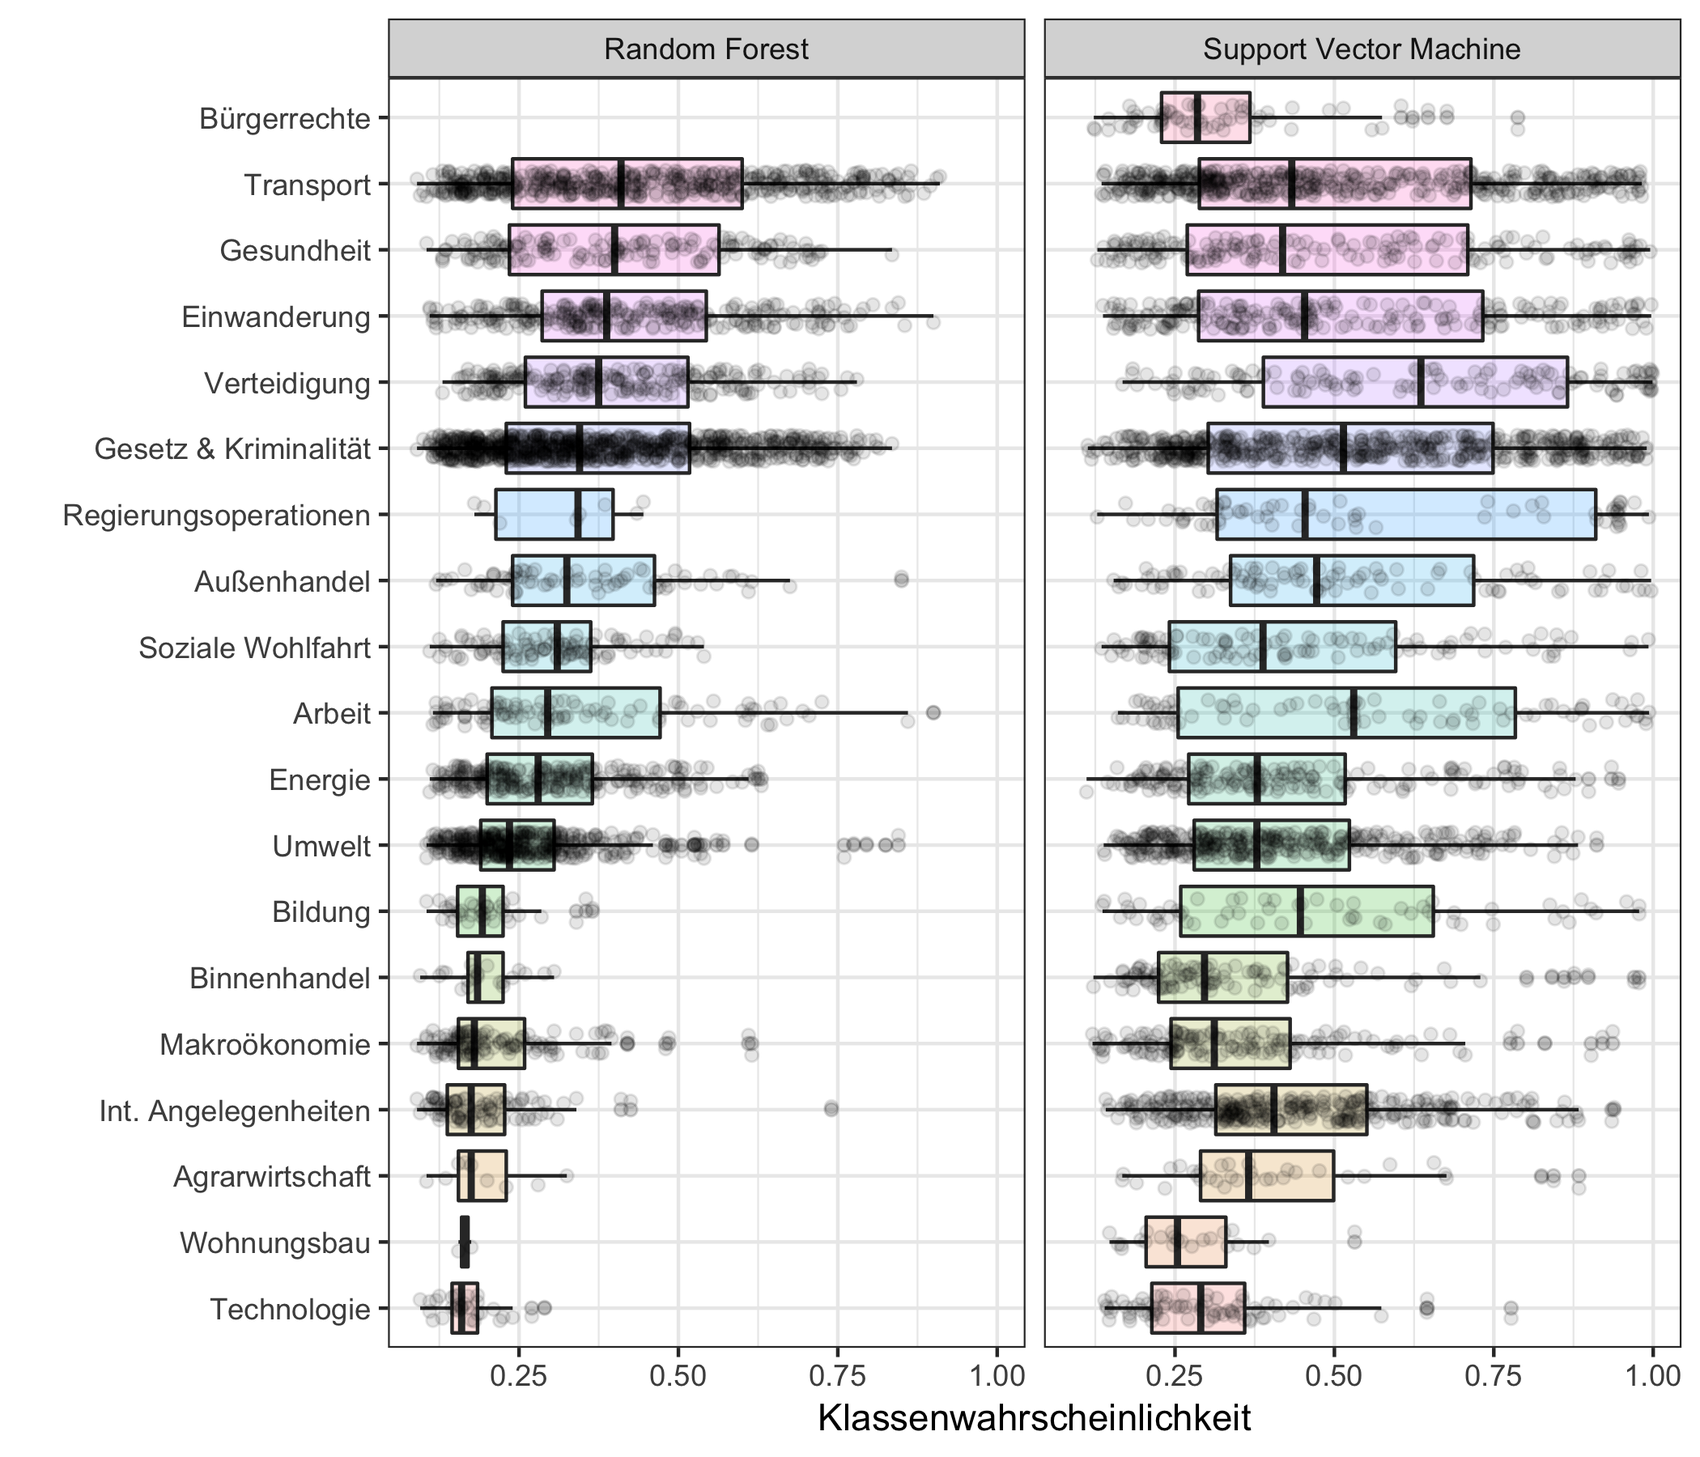
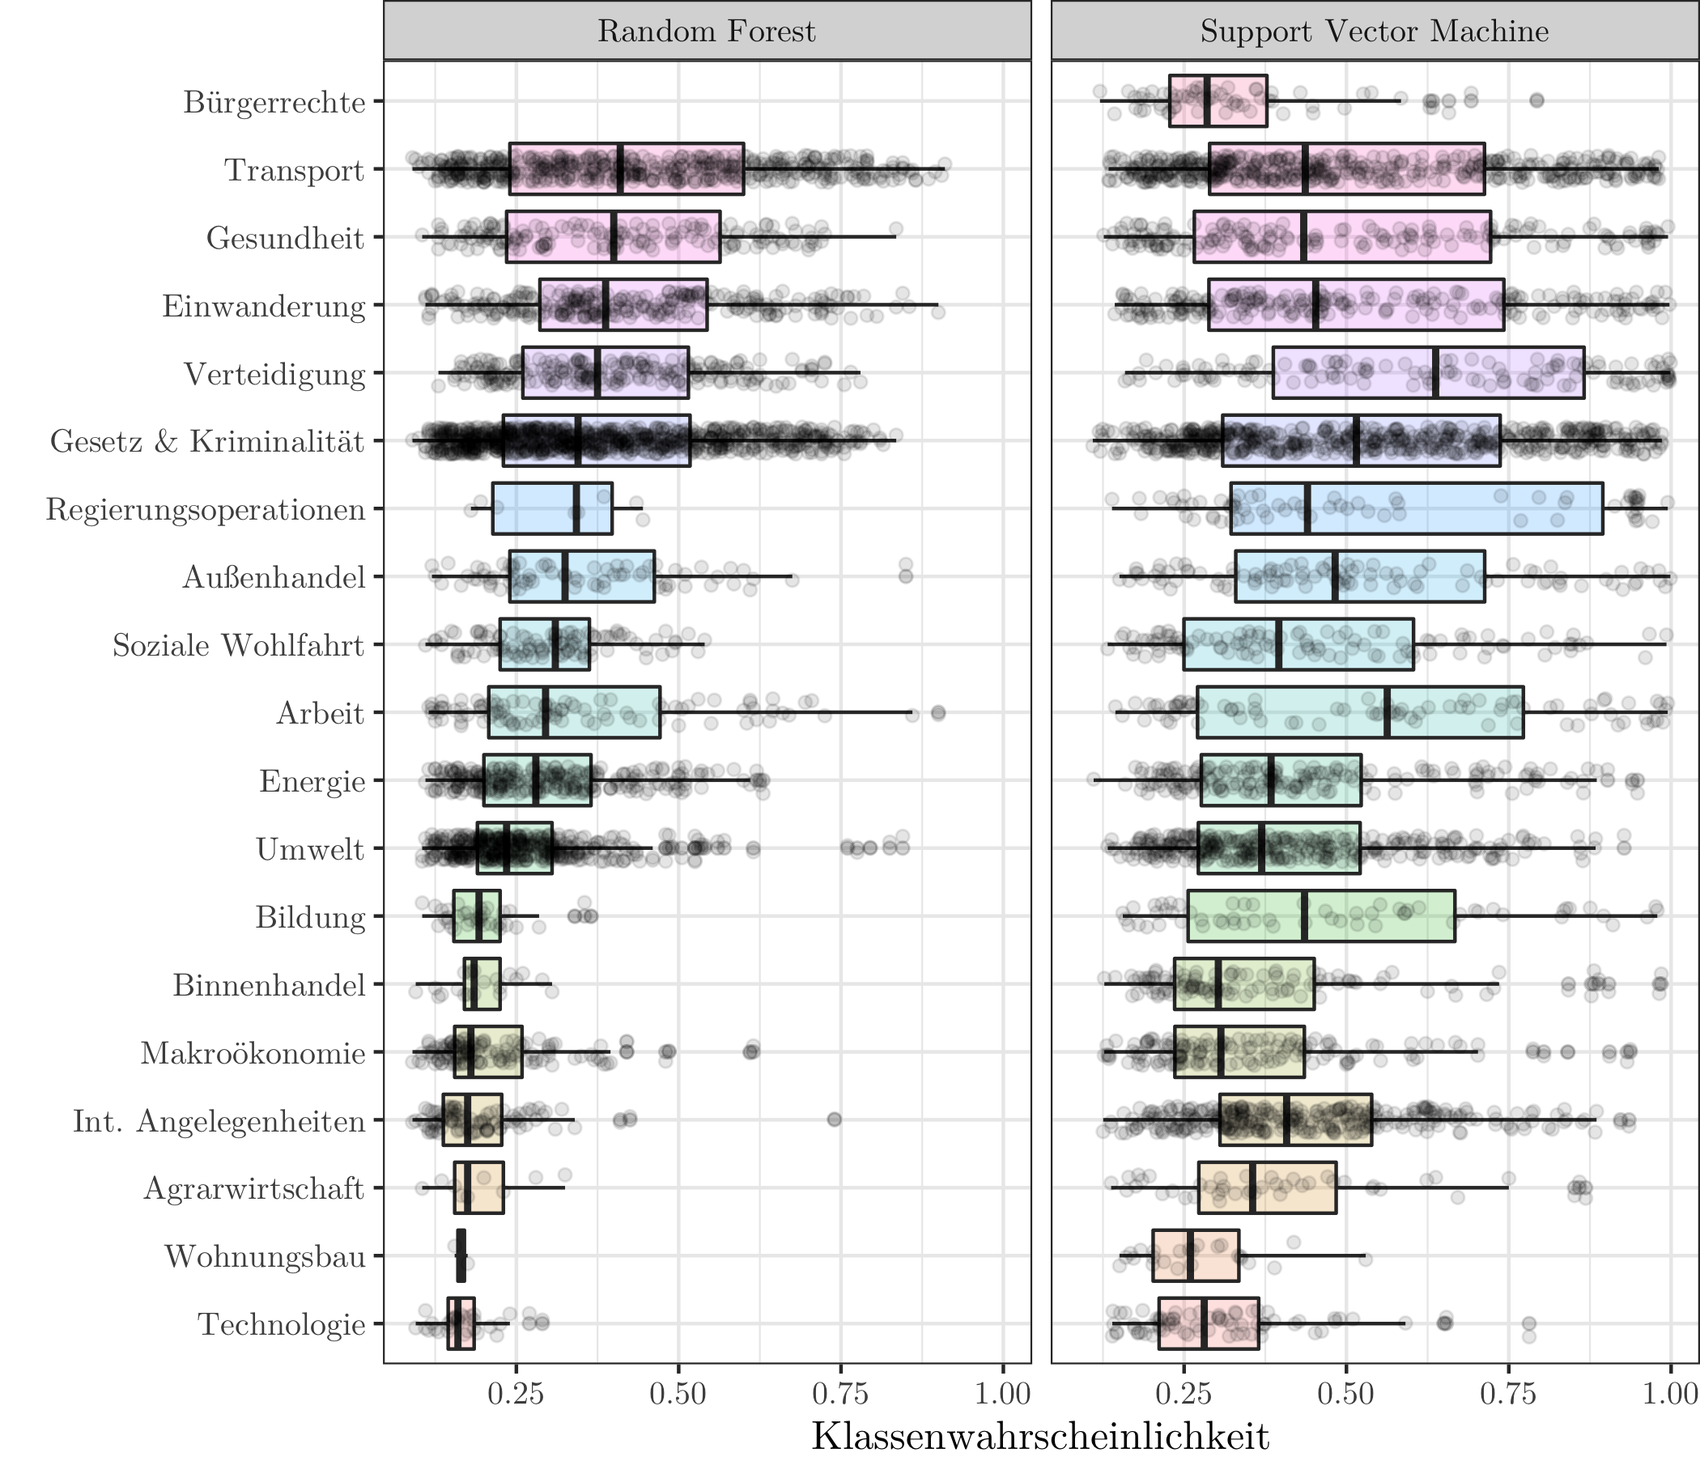
text and plot updates

diff --git a/text/4_analysis.tex b/text/4_analysis.tex
@@ -71,279 +71,106 @@
 }
 
 \setlength{\droptitle}{-2em}
-  \title{}
-  \pretitle{\vspace{\droptitle}}
-  \posttitle{}
-  \author{}
-  \preauthor{}\postauthor{}
-  \date{}
-  \predate{}\postdate{}
 
+  \title{}
+    \pretitle{\vspace{\droptitle}}
+  \posttitle{}
+    \author{}
+    \preauthor{}\postauthor{}
+    \date{}
+    \predate{}\postdate{}
+  
 
 \begin{document}
 
-\subsection{Descriptive Statistics}\label{descriptive-statistics}
+\subsection{Klassifikation}\label{klassifikation}
 
-\textbf{TODO} - Populist Parties by Country (map) - Plots:
-\emph{descriptives} Regional Plot (how many populists per region)
-Boxplot: age + educ + sex + lrscale+ religion + rural Populist Parties
-by Country (map) \emph{analysis} Coefficent Plots (one big motherfucker)
-Probability Plots for the main hypotheses
-
-This section will introduce some basic descriptive statistics of the
-used variables. More specifically, we examine the support for populism
-over time, its geographical distribution and how it differs among
-different socio-demographic groups.
-
-\begin{figure}[!h]
-    \caption{Support for Establishment/Populist Parties over Time}
-    \label{yearplot}
-    \includegraphics[width=\textwidth]{images/yearplot.png}
-    \flushright
-    {\scriptsize Source: ESS Data Round 5 - 8; N = 87238. \par}
-\end{figure}
-
-Figure \ref{yearplot} shows the support for populist and establishment
-parties over the timerange that is present in our dataset (2010 - 2016).
-As can be observed in the figure, support for populist parties has
-increased in recent years and support for the establishment has fallen.
-Support for established parties has dropped from 86.17\% in 2010 to
-81.45\% in 2016, reaching the lowest point in 2014 with 80.44\%. The
-opposite trend can be observed for the support of populist parties:
-support for progressive populists has risen from 5.83\% in 2010 to 8.3\%
-in 2016. In regards to traditionalist populism, there was an increase
-from 8\% in 2010 to 10.25\% support in 2016. Support for progressive and
-traditionalist populist parties peaked with 9.2\% and 10.36\%
-respectively in 2014 and has remained relatively constant for 2016.
-
-\begin{figure}[]
-    \caption{Support for Establishment/Populist Parties Across European Regions}
-    \label{regionplot}
-    \includegraphics[width=\textwidth]{images/regionalplot.png}
-    \flushright
-    {\scriptsize Source: ESS Data Round 5 - 8; N = 87238. \par}
-\end{figure}
-
-Figure \ref{regionplot} visualizes the support of populist parties for
-European regions as defined by the UN\footnote{Standard country or area
-  codes for statistical use (M49). See:
-  \url{https://unstats.un.org/unsd/methodology/m49/}}. It can be
-observed that Eastern Europe stands out in regard to the support for
-established parties, where it is significantly lower than in other
-regions: only 65.89\% support established parties in Eastern Europe,
-whereas in any other region support is well above 80\%. Most notably,
-the support for non-establishment parties in Eastern Europe is primarily
-due to traditional populists (23.27\%). Regarding the support of
-progressive populists, the East does not stands out clearly anymore.
-
-Southern Europe, like Northern and Western Europe, shows more than 80\%
-support for established parties, but the south clearly stands out in
-regard to their support for progressive populists (15.24\%). In regard
-to traditionalist populists, a very different picture emerges for
-Southern Europe, where support is just over 1\% and thus hardly worth
-mentioning. Such low support for populists cannot be observed in any
-other region, where the mininum is at least 6\%.
-
-\textbf{potentielle Begr??ndungen k??nnen in dem zusammenfassenden
-Absatz des Kapitels???oder man k??nnte auch weitere Plots machen, aber
-muss ja ned sein}
+Durch die Wortklassifizierung konnten 2726 Anfragen eindeutig
+klassifiziert werden. Weitere 253 Anfragen konnten durch die
+Wortklassifizierung zu 2 oder 3 Themen zugeordnet werden. Diese Anfragen
+wurden manuell richtig klassifiziert. Darüber hinaus wurden die
+Anfragen, welche durch die Wortklassifizierung nur einem Thema
+zugeordnet werden konnten, überprüft und bei wenigen Fällen korrigiert.
+Anschließend wurden weitere wenige Anfragen manuell kategorisiert um die
+Datengrundlage für die nachfolgenden Schritte der Kategorisierung weiter
+vergößern zu können. Auf diese Weise wurden 3047 der insgesamt 6349
+Anfragen kategorisiert. In Abbildung \ref{word_classification} ist die
+Verteilung der Themen ersichtlich.
 
 \begin{figure}[!h]
-    \caption{Support for Establishment/Populist Parties over Time}
-    \label{plot2by2}
-    \includegraphics[width=\textwidth]{images/plot2by2.png}
-    \flushright
-    {\scriptsize Source: ESS Data Round 5 - 8; N = 87238. \par}
+    \caption{Verteilung der Themen nach Wortklassifikation}
+    \label{word_classification}
+    \centering
+    \includegraphics[width=\textwidth]{images/themen_gesamt_manual_matching_test.png}
+    \caption*{\scriptsize }
 \end{figure}
 
-With regard to socio-demographic characteristics, there are equally
-clear trends. With regard to age, it becomes clear that supporters for
-established parties are older than those who support populist parties.
-Also, the differences between the group of supporters for established
-parties over the other two groups are significant. There is no
-significant difference between the groups ``supporters for traditional
-populists'' and ``supporters for progressive populists'' regarding age.
-In education, supporters for traditional populists stand out. These have
-a much lower education than the supporters of established parties or
-progressive populists. Although there are no visually identifiable
-differences between supporters of progressive populists and supporters
-of established parties, but an averaging comparison is significant. In
-terms of religiousness, especially the supporters of the progressive
-populists stand out with a lower average level of religiosity.
-Supporters of traditional and established parties both share similar
-religiosity, but, as mentioned on education before, a significant
-difference between the two groups can be identified by comparing the
-mean. A clear picture emerges regarding self-placement on the left-right
-scale. Those who support progressive populists arrange themselves on
-average in the left spectrum. On the other hand, the supporters of
-traditional populists tend to be more in line with the right-wing
-spectrum. In the case of the supporters for established parties, on
-average there is a classification in the middle of the left-right
-spectrum. Of course, this is more of a trivial finding, but these
-results once again confirm our operationalization. \textbf{IMPORTANT:
-mean einbauen, entweder in den Text oder aber in den Plot???damit sich
-die Signifikanzen f??r den Leser noch mal besser erkl??ren //
-statistische Kennwerte in den Text einbauen =\textgreater{} t-Werte..}
+Dabei wird ersichtlich, dass die Themen \emph{Gesetz \& Kriminalität},
+\emph{Einwanderung} und \emph{Transport} jeweils einen Anteil von
+mindestens 10\% der klassifizierten Themen aufweisen. Gleichzeitig
+liegen Themen wie \emph{Wohnungsbau}, \emph{Bürgerrechte} und
+\emph{Regierungsoperationen} vor, welche jeweils nur einen Anteil von
+0,6 bis gut 2,1 Prozent ausmachen.
 
-\subsection{logistic Analysis}\label{logistic-analysis}
+Anteil aller bla bla Test Datensatz blub
 
-This section will present the results of multinomial logistic regression
-used to estimate the support for progressive and traditionalist
-populism.
+\begin{table}[ht]
+\centering
+\caption{Richtig kategorisierte Anfragen und Anteil der Klassifikationen}
+\begin{tabular}{lllllllll}
+$p$   & \multicolumn{2}{c}{$RF_{200}$} & \multicolumn{2}{c}{$RF_{500}$} & \multicolumn{2}{c}{$RF_{1500}$} & \multicolumn{2}{c}{$SVM_{C = 10}$} \\
+   \hline
+    & Richtig      & Anteil      & Richtig      & Anteil      & Richtig       & Anteil      & Richtig     & Anteil    \\
+   \hline
+ 0.3 &   83,89    &    74,83  &    84,96    &   73,89   &   85,08     &   72,69   &  80,91   &   76,45  \\
+ 0.4 &   90,07    &    58,00  &    89,47    &   58,50   &   90,42     &   57,29   &  85,54   &   64,79  \\
+ 0.5 &   94,21    &    41,63  &    93,08    &   42,57   &   93,13     &   42,84   &  88,30   &   52,61  \\
+ 0.6 &   97,73    &    29,45  &    97,33    &   30,12   &   96,77     &   29,05   &  89,02   &   46,32  \\
+ 0.7 &   100      &    19,54  &    99,33    &   19,95   &   100       &   19,14   &  91,75   &   40,56 \\
+ 0.8 &   100      &    13,12  &    100      &   13,38   &   100       &   12,58   &  92,68   &   32,93  \\
+ 0.9 &   100      &     9,77  &    100      &    9,91   &   100       &    9,91   &  95,43   &   23,43  \\
+ \hline
+mean   & 95,40    &   34,56   &    94,73    &   36,37   &   95,06     &   34,79   &  89,09   &   48,16  \\
+  \hline
+\end{tabular}
+\caption*{\scriptsize Anmerkung: Angaben in Prozent; $p$ stellt den Cutt Off für die Klassenwahrscheinlichkeit dar}
+\end{table}
 
-\subsection{Results}\label{results}
+Klassenwahrscheinlichkeiten im einzelnen\ldots{}blub\ldots{}aber Test
+blüb
 
-control: The results found in the descriptive part are confirmed in the
-control model. In terms of age, the chance of support for both
-progressive and traditional populists of higher age is 1.01 lower than
-for support of established parties. In education, it is once again clear
-that supporters of traditional populists have a significantly lower
-education. Thus, the chance to support traditional populists compared to
-support of established parties per education point is 1.28 lower, OR =
-0.78; 95\% CI (0.77-0.79); p \textless{} 0.001. Even with respect to the
-left-right spectrum, the previously descriptive identified
-characteristics can be found clearly: the opportunity for support of
-progressive populists compared to support for established parties is
-lower by 1.45, whereas the chance for support of progressive populists
-by 1.43 higher, OR = 0.69; 95\% CI (0.68-0.70); p \textless{} 0.001 and
-OR = 1.43; 95\% CI (1.41-1.45); p \textless{} 0.001.
-
-model1: First, the economic hypothesis will be examined. Here it can be
-seen that the chance for support of progressive populists compared to
-support of established parties increases by 1.20 per scale point in the
-economic insecurity. Similarly, support for traditional populists is
-similar. Here is the chance of this 1.34 higher. Similar effects can be
-observed in unemployment, OR = 1.19; 95\% CI (1.11-1.26); p \textless{}
-0.001 and OR = 1.34; 95\% CI (1.26-1.42); p \textless{} 0.001. With
-regard to welfare, another picture is emerging. While there is a greater
-chance for progressive populists to support 1.26 compared to support
-from established parties, it should be noted that the effect is only
-slightly significant. However, this does not seem to have any
-significant effect on the support of traditional populists, OR = 0.94;
-95\% CI (0.81-1.09); p = 0.40. In terms of the economic dimension, it
-can be seen that as economic deprivation increases, the chance of
-support for populists is higher compared to support from established
-parties. However, the dependency on social benefits/welfare varies. In
-addition, almost all effects are significant in the model, and
-McFadden's R?? increases from 0.2 to 0.21 in Model 1 compared to the
-control model. In addition, the fit of the model is significantly better
-than the control model.
-
-model2: Now we come to the cultural thesis. It clearly shows that anti
-immigration has increased the chance for support from traditional
-populists by 1.29 compared to support from established parties, OR =
-1.29; 95\% CI (1.27-1.31); p \textless{} 0.001. There are also
-differences regarding conservative attitudes. Thus, the chance of
-supporting traditional populists is slightly higher compared to support
-from established parties, whereas the chance of supporting progressive
-populists is slightly lower. A similar difference can also be noted in
-terms of openness. The effects on the self-enhancement scale and the
-self-transcendence scale are in line with expectations. For each scale
-point on the self-transcendence scale, the chance of support for
-traditional populists is 1.08 lower than that for established party
-support. Regarding the support for progressive populists, the chance are
-slightly larger. With regard to the self-enhancement scale, the exact
-opposite is the case with similar effect sizes. Not surprising are the
-effects on government satisfaction and globalization. Globalization,
-which has been measured by trust in the EU and the UN, as well as
-satisfaction with the government, in comparison to the chance to support
-established parties, less chance of supporting populist parties, OR =
-0.92; 95\% CI (0.91-0.94); p \textless{} 0.001; OR = 0.93; 95\% CI
-(0.92-0.95); p \textless{} 0.001; OR = 0.89; 95\% CI (0.88-0.91); p
-\textless{} 0.001; OR = 0.88; 95\% CI (0.86-0.89); p \textless{} 0.001.
-The McFadden's R?? increases from 0.21 to 0.24 compared to model 2, and
-the fit of the model is significantly better compared to model 2. In
-contrast to the economic dimension, the effects on the cultural
-dimension went in different directions. It has thus become clear that
-the cultural dimension ultimately contributes explanatory power when it
-comes to the question of which form of populism is supported. However,
-it should also be emphasized that the effect sizes found here are rather
-weak.
-
-Model 3: Model 3 now includes the economic as well as the cultural
-dimensions. This confirms the previously found effects again. In terms
-of the economic dimension, however, there are slight reductions in the
-effects. But despite a slight weakening of the effect sizes,
-significances remain untouched. Moreover, the McFadden's R?? increases
-from 0.24 to 0.25 compared to model 2 and the fit of the model is
-significantly better compared to the previous model.
-
-Abschluss: Finally, with regard to our multinomial models, it can be
-said that our hypotheses were able to confirm. Let's start with the
-economic hypothesis:
-
-H1: The less economically fortunate (economic dissatisfaction,
-unemployment, economic insecurity, living on welfare), the higher the
-probability of supporting anti-establishment parties.
-
-This hypothesis was clearly confirmed by the models. Unemployment,
-economic insecurity and also the life on welfare increase the chance to
-support populists compared to support of established parties. The impact
-of living on welfare seems not to be as great as the other two factors
-mentioned and does not even have a significant effect in supporting
-traditional populists. In addition, in Model 3, where the cultural
-dimension has been added, there is a slight weakening of the effects.
-But despite the weakening, all significances remain stable.
-
-Concerning our two established culture hypotheses, confirmatory results
-could also be found here. H2: The more culturally inclusive (values),
-the higher the probability of supporting progressive populist parties.
-
-H3: The more culturally exclusive, the higher the probability of
-supporting a traditionalist populist party.
-
-Inclusive values (high values for self-transcendence and openness and a
-low value for anti-immigration) increases the probability of support for
-progressive populists, but openness has no significant effect here.
-Also, when there are exclusive values (low values for self-transcendence
-and openness and a high value for anti-immigration), the probability of
-supporting traditional populists increases. Anti-immigration in
-particular seems very important here and stands out clearly from the
-other effects. In addition, the effect of openness on supporting
-traditional populist parties is highly significant. Even in Model 3, all
-these effects remain stable. The effects also show our previously
-suspected differentiation. The economic dimension generally provides for
-an increase in the likelihood of supporting populist parties. The
-cultural dimension, on the other hand, shows that it has an opposite
-effect on the support of traditional and progressive populists.
-
-It should also be stressed that while all the effects found are
-significant, they are rather weak. In addition, almost all effects of
-the control variables remain significant in all models. In literature,
-supporters of populist parties often associate features such as a higher
-age and lower education. But there were slight surprises here. The
-strong difference between supporting progressive and traditional
-populists in education stands out. Supporters of traditional populists
-may have low education but not supporters of progressive populists. When
-it comes to age, it even shows that supporters of progressive populists
-as well as supporters of traditional populists have a slightly lower
-age.
-
-Let's first evaluate the results of the \emph{economic deprivation
-hypothesis}. Looking at \emph{Welfare}, the chance of supporting a
-traditionalist populist party compared to supporting an Establishment
-party seems to not have a significant effect, OR = 1.05; 95\% CI
-(0.90-1.23); p = 0.53. However, the expected effect of welfare emerges
-elsewhere: the chance of supporting a progressive party compared to an
-establishment party is 1.29 higher when an individual is on welfare, OR
-= 1.29; 95\% CI (1.14-1.47); p \textless{} 0.001.
-
-Let's next evaulate the effects for the \emph{cultural thesis}. Looking
-at \emph{Conservation}, the chance of supporting a traditionalist
-populist party compared to supporting an Establishment party seems to
-increase by 1.05 per conservation unit scale, OR = 1.05; 95\% CI
-(1.03-1.08); p \textless{} 0.001. The expected effect of
-\emph{Conservation} also emerges when looking at progressive populism:
-the chance of supporting a progressive party compared to an
-establishment party is 1.03 lower when an individual fully endorses
-conservation values, OR = 0.97; 95\% CI (0.95-1.00); p \textless{} 0.05.
-
-\begin{landscape}
-\begin{figure}[htpb]
-  \includegraphics[height=1.2\textheight, width=1.5\textwidth]{images/onebigmotherfucker.png}
-  \caption{Functional Decomposed Data Structure}
+\begin{figure}[!h]
+    \caption{Klassenwahrscheinlichkeiten (Testklassifikation)}
+    \label{probs_real}
+    \centering
+    \includegraphics[width=\textwidth]{images/rf_svm_prob_boxplot_2.png}
+    \caption*{\scriptsize }
 \end{figure}
-\end{landscape}
+
+Klassenwahrscheinlichkeiten für vollständige Klassifikation (Apendix, da
+kaum Unterschiede mit Testklassifikation\ldots{})
+
+\begin{figure}[!h]
+    \caption{Klassenwahrscheinlichkeiten (vollständige Klassifikation)}
+    \label{probs_real}
+    \centering
+    \includegraphics[width=\textwidth]{images/prob_boxplot_real_mod_2.png}
+    \caption*{\scriptsize }
+\end{figure}
+
+\subsection{Deskriptive Analyse}\label{deskriptive-analyse}
+
+Darstellung der Anfragen nach Partei
+
+\begin{figure}[!h]
+    \caption{Anzahl gestellter Anfragen nach Partei}
+    \label{anfragen_count}
+    \centering
+    \includegraphics[width=\textwidth]{images/AnfragenPartei_18_19_complete.png}
+    \caption*{\scriptsize Anmerkung: Anzahl der kleinen Anfragen nach Jahr und Legislaturperiode}
+\end{figure}
+
+\subsection{Sentiment Analyse}\label{sentiment-analyse}
 
 
 \end{document}
